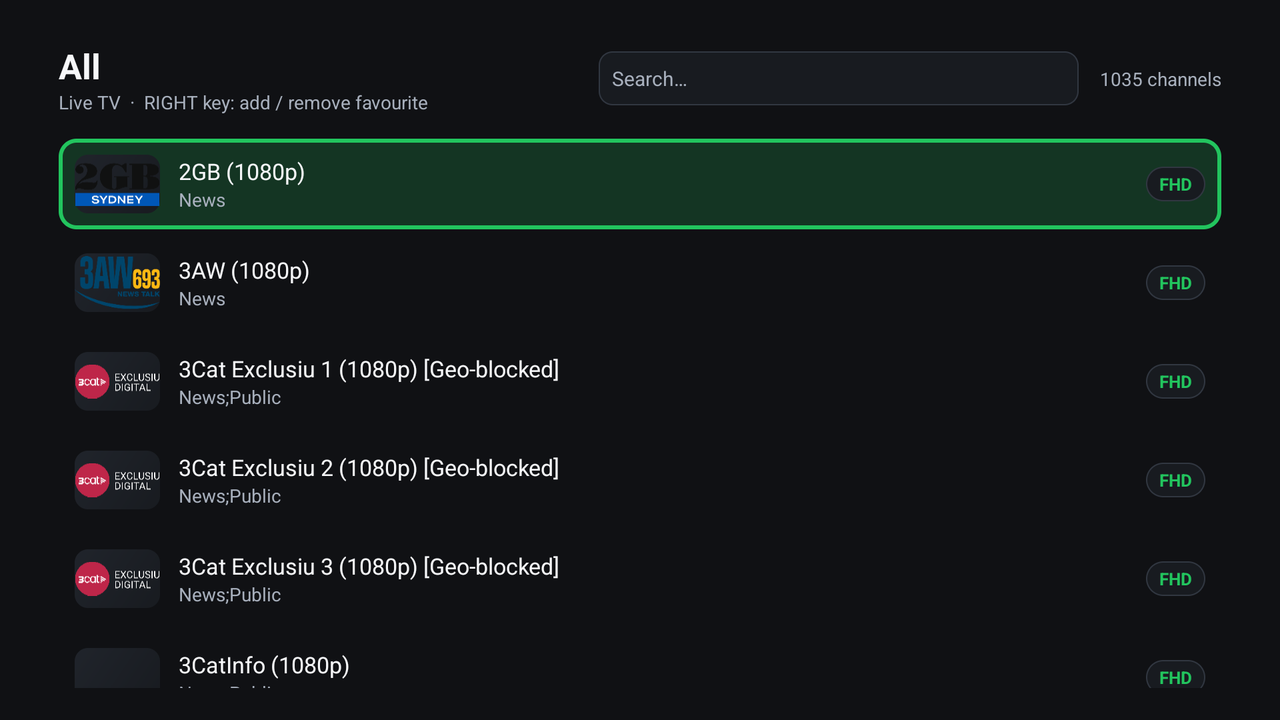
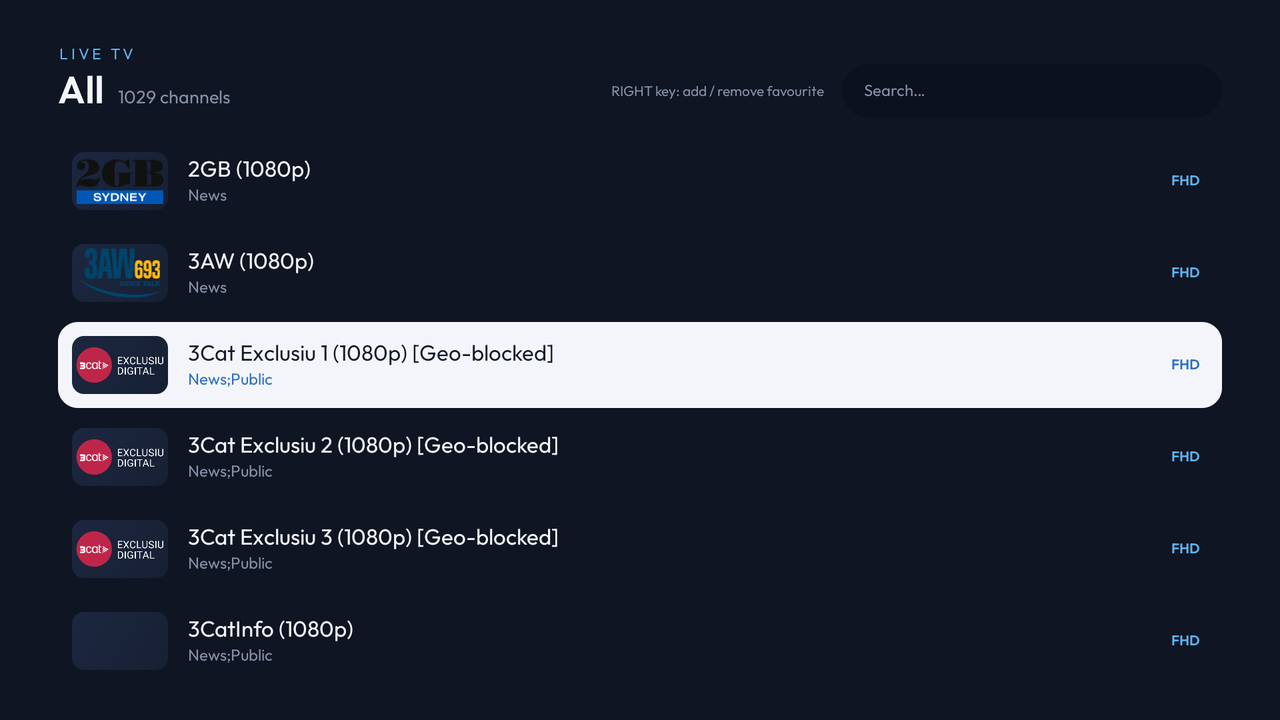
v1.4: disclaimer, license, third-party notices, new design screenshots

diff --git a/THIRD_PARTY_NOTICES.md b/THIRD_PARTY_NOTICES.md
@@ -1,0 +1,113 @@
+# Third-party notices
+
+IPTV Studio includes the following open-source components.
+
+| Component | License |
+|---|---|
+| [AndroidX](https://developer.android.com/jetpack/androidx) (core, appcompat, recyclerview, constraintlayout, lifecycle, activity) | Apache License 2.0 |
+| [AndroidX Media3 / ExoPlayer](https://github.com/androidx/media) | Apache License 2.0 |
+| [Kotlin](https://kotlinlang.org/) and [kotlinx.coroutines](https://github.com/Kotlin/kotlinx.coroutines) | Apache License 2.0 |
+| [OkHttp](https://square.github.io/okhttp/) | Apache License 2.0 |
+| [Coil](https://coil-kt.github.io/coil/) | Apache License 2.0 |
+| [desugar_jdk_libs](https://github.com/google/desugar_jdk_libs) | GPL v2 with Classpath Exception |
+| [Outfit](https://github.com/Outfitio/Outfit-Fonts) font | SIL Open Font License 1.1 (below) |
+
+The Apache License 2.0 is available at https://www.apache.org/licenses/LICENSE-2.0.
+
+---
+
+## Outfit font
+
+Copyright 2021 The Outfit Project Authors (https://github.com/Outfitio/Outfit-Fonts)
+
+This Font Software is licensed under the SIL Open Font License, Version 1.1.
+This license is copied below, and is also available with a FAQ at:
+https://openfontlicense.org
+
+```
+SIL OPEN FONT LICENSE Version 1.1 - 26 February 2007
+-----------------------------------------------------------
+
+PREAMBLE
+The goals of the Open Font License (OFL) are to stimulate worldwide
+development of collaborative font projects, to support the font creation
+efforts of academic and linguistic communities, and to provide a free and
+open framework in which fonts may be shared and improved in partnership
+with others.
+
+The OFL allows the licensed fonts to be used, studied, modified and
+redistributed freely as long as they are not sold by themselves. The
+fonts, including any derivative works, can be bundled, embedded, 
+redistributed and/or sold with any software provided that any reserved
+names are not used by derivative works. The fonts and derivatives,
+however, cannot be released under any other type of license. The
+requirement for fonts to remain under this license does not apply
+to any document created using the fonts or their derivatives.
+
+DEFINITIONS
+"Font Software" refers to the set of files released by the Copyright
+Holder(s) under this license and clearly marked as such. This may
+include source files, build scripts and documentation.
+
+"Reserved Font Name" refers to any names specified as such after the
+copyright statement(s).
+
+"Original Version" refers to the collection of Font Software components as
+distributed by the Copyright Holder(s).
+
+"Modified Version" refers to any derivative made by adding to, deleting,
+or substituting -- in part or in whole -- any of the components of the
+Original Version, by changing formats or by porting the Font Software to a
+new environment.
+
+"Author" refers to any designer, engineer, programmer, technical
+writer or other person who contributed to the Font Software.
+
+PERMISSION & CONDITIONS
+Permission is hereby granted, free of charge, to any person obtaining
+a copy of the Font Software, to use, study, copy, merge, embed, modify,
+redistribute, and sell modified and unmodified copies of the Font
+Software, subject to the following conditions:
+
+1) Neither the Font Software nor any of its individual components,
+in Original or Modified Versions, may be sold by itself.
+
+2) Original or Modified Versions of the Font Software may be bundled,
+redistributed and/or sold with any software, provided that each copy
+contains the above copyright notice and this license. These can be
+included either as stand-alone text files, human-readable headers or
+in the appropriate machine-readable metadata fields within text or
+binary files as long as those fields can be easily viewed by the user.
+
+3) No Modified Version of the Font Software may use the Reserved Font
+Name(s) unless explicit written permission is granted by the corresponding
+Copyright Holder. This restriction only applies to the primary font name as
+presented to the users.
+
+4) The name(s) of the Copyright Holder(s) or the Author(s) of the Font
+Software shall not be used to promote, endorse or advertise any
+Modified Version, except to acknowledge the contribution(s) of the
+Copyright Holder(s) and the Author(s) or with their explicit written
+permission.
+
+5) The Font Software, modified or unmodified, in part or in whole,
+must be distributed entirely under this license, and must not be
+distributed under any other license. The requirement for fonts to
+remain under this license does not apply to any document created
+using the Font Software.
+
+TERMINATION
+This license becomes null and void if any of the above conditions are
+not met.
+
+DISCLAIMER
+THE FONT SOFTWARE IS PROVIDED "AS IS", WITHOUT WARRANTY OF ANY KIND,
+EXPRESS OR IMPLIED, INCLUDING BUT NOT LIMITED TO ANY WARRANTIES OF
+MERCHANTABILITY, FITNESS FOR A PARTICULAR PURPOSE AND NONINFRINGEMENT
+OF COPYRIGHT, PATENT, TRADEMARK, OR OTHER RIGHT. IN NO EVENT SHALL THE
+COPYRIGHT HOLDER BE LIABLE FOR ANY CLAIM, DAMAGES OR OTHER LIABILITY,
+INCLUDING ANY GENERAL, SPECIAL, INDIRECT, INCIDENTAL, OR CONSEQUENTIAL
+DAMAGES, WHETHER IN AN ACTION OF CONTRACT, TORT OR OTHERWISE, ARISING
+FROM, OUT OF THE USE OR INABILITY TO USE THE FONT SOFTWARE OR FROM
+OTHER DEALINGS IN THE FONT SOFTWARE.
+```

diff --git a/README.md b/README.md
@@ -56,3 +56,18 @@ IPTV server. The app does not send data anywhere else.
 
 When a new version is released, download it from the same link and install it over the old
 one. Your settings, favourites and history are kept.
+
+## Disclaimer
+
+IPTV Studio is a media player only. It does not provide, host, sell or link to any channels,
+playlists, streams or subscriptions, and it is not affiliated with any IPTV provider.
+
+You are solely responsible for the content you play with it and for making sure your IPTV
+subscription and its use are legal where you live. Do not use IPTV Studio with pirated or
+unlicensed content.
+
+## License
+
+IPTV Studio is free to download and use. It is provided "as is", without warranty of any kind.
+See [LICENSE](LICENSE) for the full terms and [THIRD_PARTY_NOTICES.md](THIRD_PARTY_NOTICES.md)
+for the open-source components it includes.
